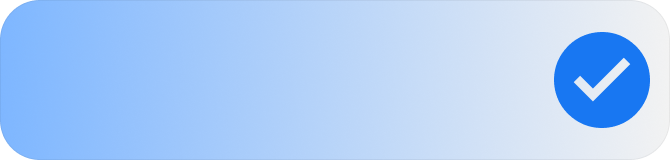
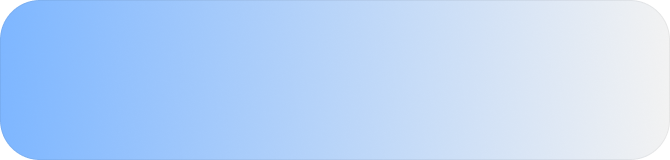
update

Changed region(s): [[0.806, 0.1875, 0.9851, 0.8125]]

diff --git a/lib/presentation/manage_reservations/manage_reservations_screen.dart b/lib/presentation/manage_reservations/manage_reservations_screen.dart
@@ -124,11 +124,11 @@ class ManageReservationsScreen extends StatelessWidget {
               crossAxisAlignment: CrossAxisAlignment.start,
               children: [
                 Text(
-                  'Hamza Saloon',
+                  order.business.name,
                   style: FontStyles.fontW700.copyWith(fontSize: 18),
                 ),
                 Text(
-                  'Hair Cut',
+                  getServiceNameById(order.business.serviceCategoryId),
                   style: FontStyles.fontW400.copyWith(fontSize: 16),
                 ),
               ],
@@ -189,11 +189,10 @@ class ManageReservationsScreen extends StatelessWidget {
                   crossAxisAlignment: CrossAxisAlignment.start,
                   children: [
                     Text(
-                      'Hamza Saloon',
+                      order.business.name,
                       style: FontStyles.fontW700.copyWith(fontSize: 18),
                     ),
-                    Text(
-                      'Hair Cut',
+                    Text(getServiceNameById(order.business.serviceCategoryId),
                       style: FontStyles.fontW400.copyWith(fontSize: 16),
                     ),
                   ],
@@ -213,7 +212,7 @@ class ManageReservationsScreen extends StatelessWidget {
                       crossAxisAlignment: CrossAxisAlignment.center,
                       children: [
                         Text(
-                          '1',
+                          order.orders.totalPerson.toString(),
                           style: FontStyles.fontW600.copyWith(
                             fontSize: 20,
                             color: AppColors.blue,
@@ -258,11 +257,11 @@ class ManageReservationsScreen extends StatelessWidget {
                     crossAxisAlignment: CrossAxisAlignment.start,
                     children: [
                       Text(
-                        'Hamza Saloon',
+                        order.business.name,
                         style: FontStyles.fontW700.copyWith(fontSize: 18),
                       ),
                       Text(
-                        'Hair Cut',
+                        getServiceNameById(order.business.serviceCategoryId),
                         style: FontStyles.fontW400.copyWith(fontSize: 16),
                       ),
                     ],
@@ -287,7 +286,7 @@ class ManageReservationsScreen extends StatelessWidget {
                           ),
 
                           Text(
-                            'Location',
+                            order.business.address,
                             style: FontStyles.fontW800.copyWith(
                               fontSize: 11,
                               color: AppColors.blue,
@@ -325,11 +324,10 @@ class ManageReservationsScreen extends StatelessWidget {
     return Container(
         padding: const EdgeInsets.all(16),
         decoration: BoxDecoration(
-          color: AppColors.blue.withOpacity(0.1),
-          borderRadius: BorderRadius.circular(16),
+          borderRadius: BorderRadius.circular(12),
           image: const DecorationImage(
             image: AssetImage('assets/ic_completed_bg.png'),
-            fit: BoxFit.cover, // cover entire container
+            fit: BoxFit.fill,
           ),
         ),
         child: Column(
@@ -341,8 +339,18 @@ class ManageReservationsScreen extends StatelessWidget {
                     crossAxisAlignment: CrossAxisAlignment.start,
                     children: [
                       Text(
-                        'Power Wash',
-                        style: FontStyles.fontW800.copyWith(fontSize: 18),
+                        order.business.name,
+                        style: FontStyles.fontW600.copyWith(fontSize: 14),
+                      ),
+                      const SizedBox(height: 4),
+                      Text(
+                        getServiceNameById(order.business.serviceCategoryId),
+                        style: FontStyles.fontW600.copyWith(fontSize: 14),
+                      ),
+                      const SizedBox(height: 4),
+                      Text(
+                        order.business.address,
+                        style: FontStyles.fontW600.copyWith(fontSize: 14),
                       ),
                       const SizedBox(height: 4),
                       Text(
@@ -354,11 +362,31 @@ class ManageReservationsScreen extends StatelessWidget {
                       ),
                     ],
                   ),
-                )
+                ),
+                const Spacer(),
+                Image.asset('assets/ic_completed_tick.png', width: 48, height: 48)
               ],
             )
           ],
         )
     );
+  }
+
+  String getServiceNameById(int id) {
+    final services = [
+      {"id": 1, "name": "Hair & Styling"},
+      {"id": 2, "name": "Car Wash & Services"},
+      {"id": 3, "name": "Restaurant"},
+      {"id": 4, "name": "Beauty Parlor"},
+      {"id": 5, "name": "Massage"},
+      {"id": 6, "name": "Medical & Dental"},
+    ];
+
+    final service = services.firstWhere(
+          (item) => item["id"] == id,
+      orElse: () => {},
+    );
+
+    return service["name"].toString();
   }
 }

diff --git a/lib/main.dart b/lib/main.dart
@@ -1,13 +1,34 @@
 import 'package:flutter/material.dart';
+import 'package:flutter_bloc/flutter_bloc.dart';
 import 'package:flutter_localizations/flutter_localizations.dart';
+import 'package:hajzi/presentation/bottomnavigation/bloc/tab_bloc.dart';
+import 'package:hajzi/presentation/dashboard/bloc/dashboard_cubit.dart';
+import 'package:hajzi/presentation/manage_reservations/bloc/manage_reservations_cubit.dart';
 import 'package:hajzi/routes/app_routes.dart';
 import 'core/localization/app_localization.dart';
+import 'core/localization/locale_cubit.dart';
 import 'core/utils/navigator_service.dart';
+import 'core/utils/pref_utils.dart';
 
-void main() {
+void main() async {
   WidgetsFlutterBinding.ensureInitialized();
 
-  runApp(const MyApp());
+  final savedLang = await PrefUtils().readValue(PrefUtils.language) ?? 'en';
+  final savedLocale = Locale(savedLang);
+
+  runApp(
+    MultiBlocProvider(
+      providers: [
+        BlocProvider<LocaleCubit>(
+          create: (_) => LocaleCubit(savedLocale),
+        ),
+        BlocProvider(create: (_) => TabBloc()),
+        BlocProvider(create: (_) => DashboardCubit()),
+        BlocProvider(create: (_) => ManageReservationsCubit()),
+      ],
+      child: const MyApp(),
+    ),
+  );
 }
 
 class MyApp extends StatelessWidget {

diff --git a/lib/presentation/bottomnavigation/main_screen.dart b/lib/presentation/bottomnavigation/main_screen.dart
@@ -2,6 +2,7 @@ import 'package:flutter/material.dart';
 import 'package:flutter_bloc/flutter_bloc.dart';
 import 'package:flutter_svg/svg.dart';
 import 'package:hajzi/presentation/dashboard/dashboard_screen.dart';
+import 'package:hajzi/presentation/manage_reservations/bloc/manage_reservations_cubit.dart';
 import '../../theme/app_colors.dart';
 import '../dashboard/bloc/dashboard_cubit.dart';
 import '../manage_reservations/manage_reservations_screen.dart';
@@ -71,6 +72,12 @@ class _MainScreenState extends State<MainScreen> {
               final selectedTab = _indexToTab(index);
               if (selectedTab != state.currentTab) {
                 context.read<TabBloc>().add(TabChanged(selectedTab));
+
+                if (selectedTab == TabItem.home) {
+                  context.read<DashboardCubit>().fetchUserOrder();
+                } else if (selectedTab == TabItem.request) {
+                  context.read<ManageReservationsCubit>().refreshOrders();
+                }
               }
             },
           ),

diff --git a/lib/presentation/manage_reservations/bloc/manage_reservations_cubit.dart b/lib/presentation/manage_reservations/bloc/manage_reservations_cubit.dart
@@ -5,7 +5,7 @@ import 'manage_reservations_state.dart';
 
 class ManageReservationsCubit extends Cubit<ManageReservationsState> {
   ManageReservationsCubit() : super(ManageReservationsState()) {
-    fetchUserOrders();
+    refreshOrders();
   }
 
   Future<void> fetchUserOrders() async {

diff --git a/lib/core/localization/locale_cubit.dart b/lib/core/localization/locale_cubit.dart
@@ -1,0 +1,8 @@
+import 'package:flutter_bloc/flutter_bloc.dart';
+import 'package:flutter/material.dart';
+
+class LocaleCubit extends Cubit<Locale> {
+  LocaleCubit(Locale initial) : super(initial);
+
+  void setLocale(Locale locale) => emit(locale);
+} 

diff --git a/lib/core/utils/pref_utils.dart b/lib/core/utils/pref_utils.dart
@@ -6,6 +6,7 @@ class PrefUtils {
   static String isLoggedIn = "logged_in";
   static String token = "token";
   static String isCompleted = "completed";
+  static String language = "lang";
 
   PrefUtils() {
     // init();
